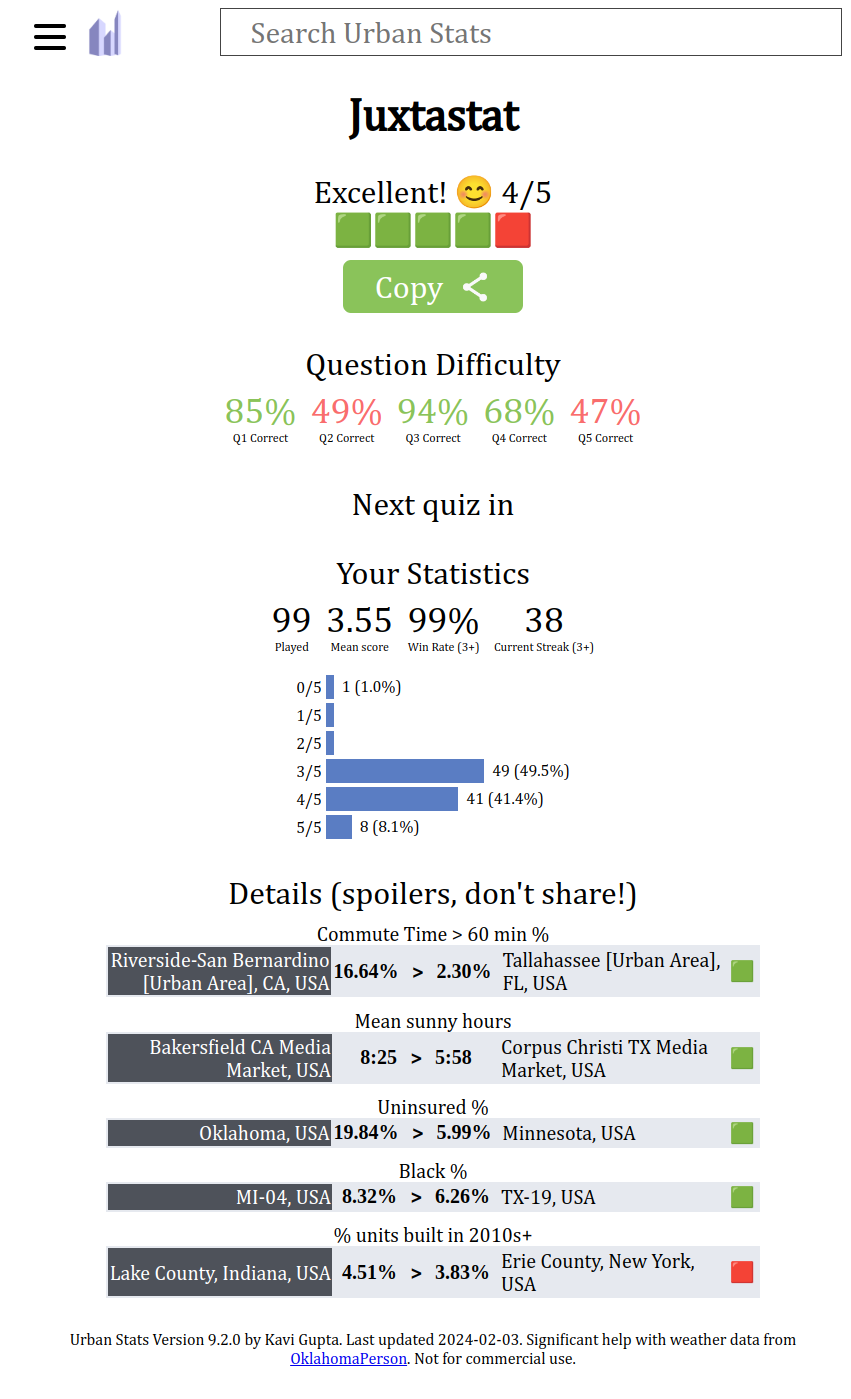
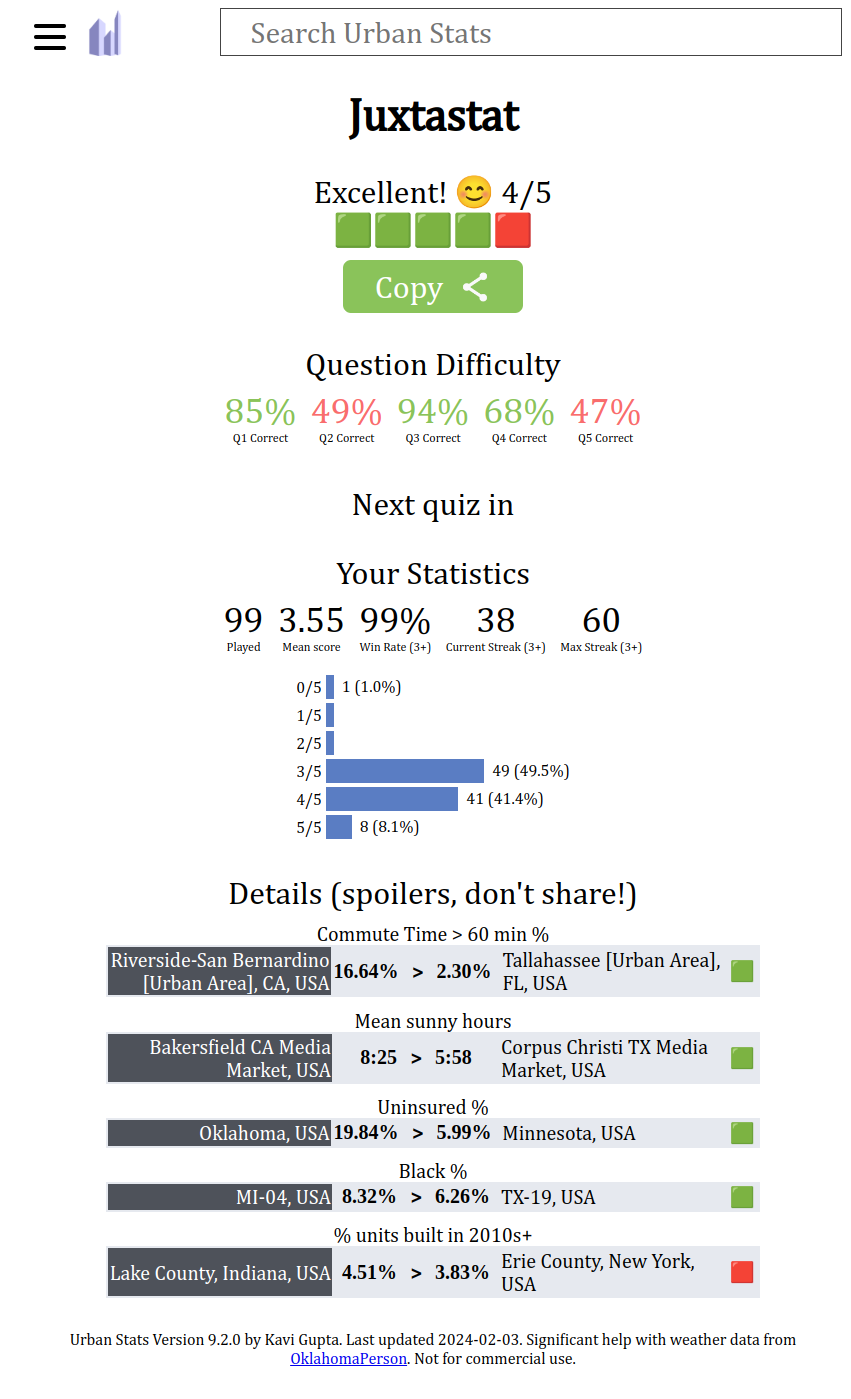
Add max streak (#143)
* add max streak

* update images

Changed region(s): [[0.275, 0.4303, 0.7333, 0.4918]]

diff --git a/react/src/quiz/quiz-statistics.js b/react/src/quiz/quiz-statistics.js
@@ -69,6 +69,10 @@ export class QuizStatistics extends React.Component {
                 name: "Current Streak (3+)",
                 value: current_streak,
             },
+            {
+                name: "Max Streak (3+)",
+                value: max_streak,
+            },
         ];
         return <div>
             <div className="serif quiz_summary">Your Statistics</div>
